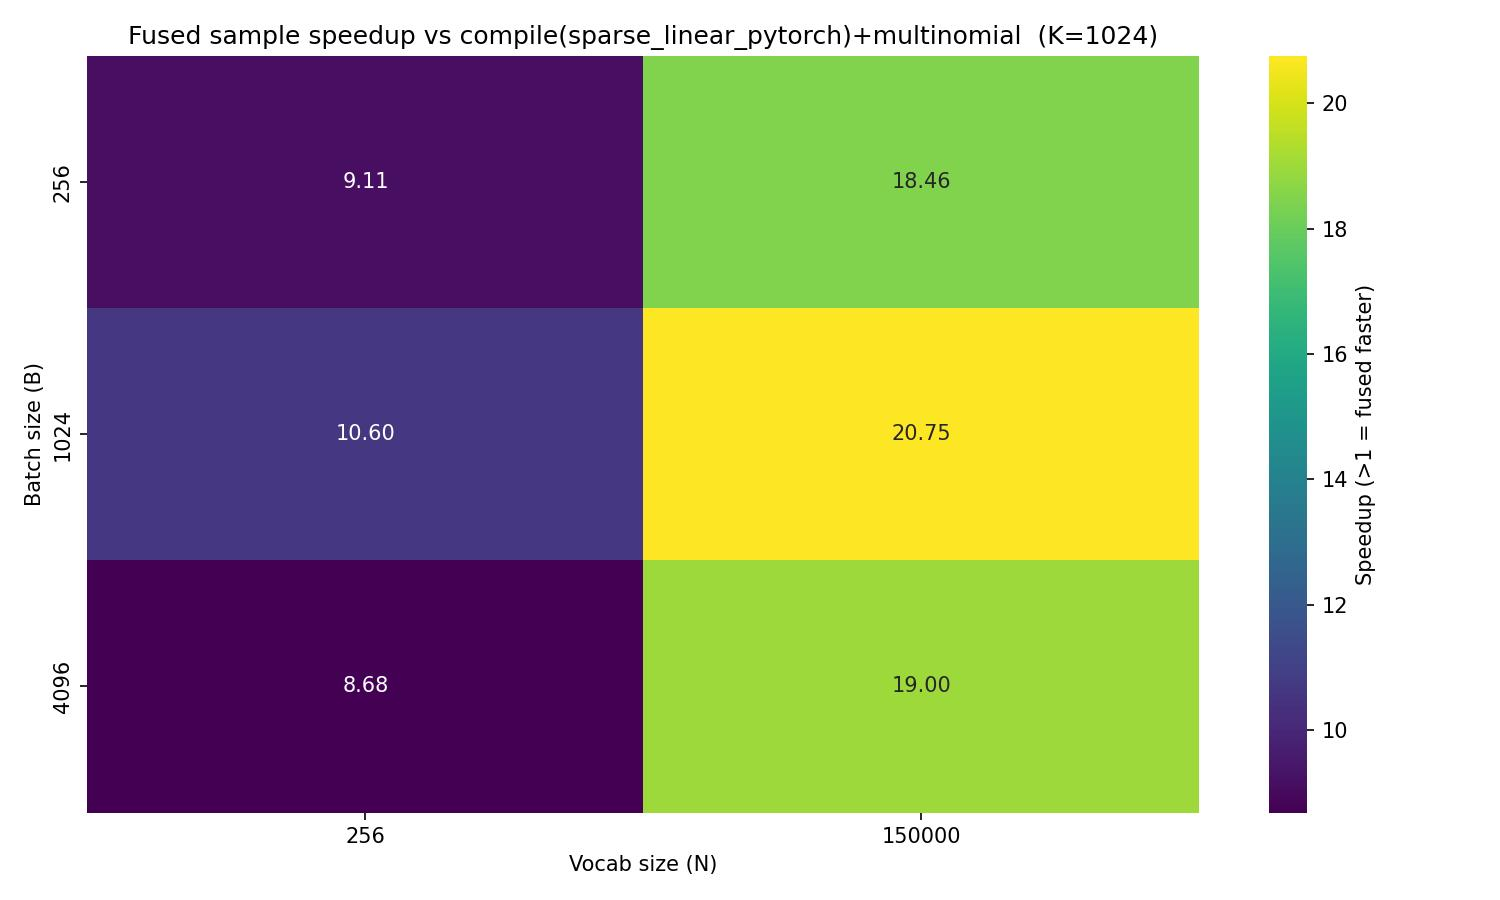
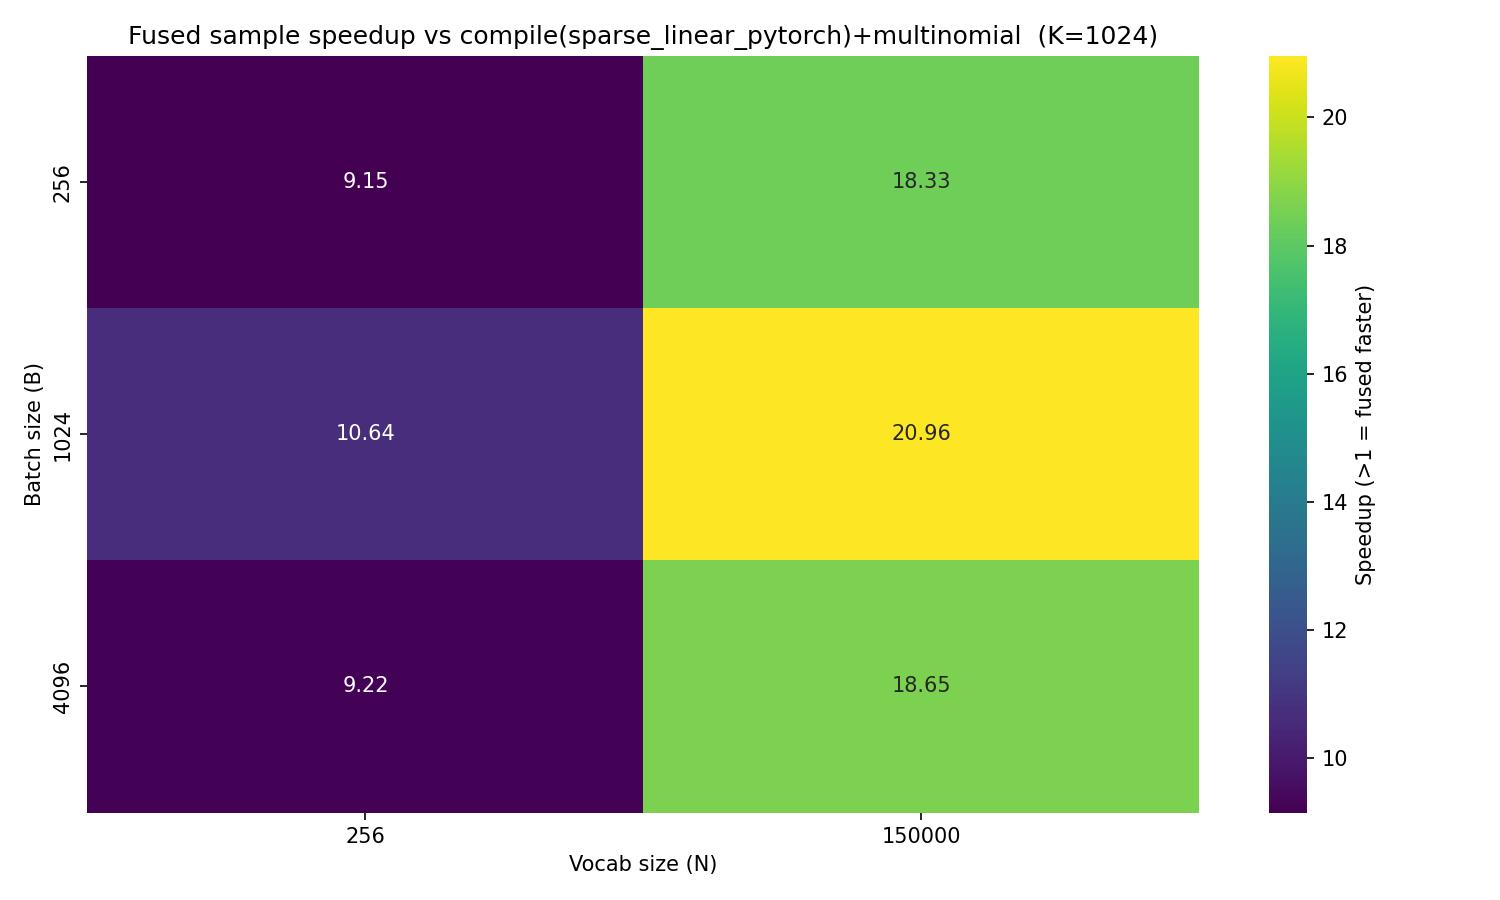
Minor refactor of kernels

diff --git a/rectokens/kernels/constrained_node_transition.py b/rectokens/kernels/constrained_node_transition.py
@@ -313,6 +313,66 @@ def _compute_branch_logits(
     return branch_cols, branch_vals, branch_valid, logits
 
 
+@triton.jit
+def _fused_prologue(
+    cur_node_ptr,
+    csr_trie_row_ptr,
+    a_ptr,
+    b_ptr,
+    bias_ptr,
+    csr_trie_cols_vals_ptr,
+    next_node_ptr,
+    valid_idxs_ptr,
+    a_stride_B,
+    a_stride_K,
+    b_stride_K,
+    b_stride_N,
+    cols_vals_stride_0,
+    next_node_stride_B,
+    next_node_stride_N,
+    valid_idxs_stride_B,
+    valid_idxs_stride_N,
+    max_branches,
+    B: tl.constexpr,
+    K: tl.constexpr,
+    BLOCK_B: tl.constexpr,
+    BLOCK_K: tl.constexpr,
+    BLOCK_BRANCHES: tl.constexpr,
+    HAS_BIAS: tl.constexpr,
+):
+    """Shared prologue: pid setup, CSR load, branch logit compute, and next_node/valid_idxs stores."""
+    pid_B = tl.program_id(axis=0)
+    pid_BR = tl.program_id(axis=1)
+
+    offs_B = pid_B * BLOCK_B + tl.arange(0, BLOCK_B)
+    offs_BR = pid_BR * BLOCK_BRANCHES + tl.arange(0, BLOCK_BRANCHES)
+    b_mask = offs_B < B
+
+    csr_row_ptrs, n_children = _load_csr_state(
+        offs_B, b_mask, cur_node_ptr, csr_trie_row_ptr
+    )
+
+    branch_cols, branch_vals, branch_valid, logits = _compute_branch_logits(
+        offs_B, offs_BR, b_mask, csr_row_ptrs, n_children,
+        a_ptr, b_ptr, bias_ptr, csr_trie_cols_vals_ptr,
+        a_stride_B, a_stride_K, b_stride_K, b_stride_N, cols_vals_stride_0,
+        max_branches, K, BLOCK_B, BLOCK_K, BLOCK_BRANCHES, HAS_BIAS,
+    )
+
+    store_mask = b_mask[:, None] & (offs_BR[None, :] < max_branches)
+    tl.store(
+        next_node_ptr + offs_B[:, None] * next_node_stride_B + offs_BR[None, :] * next_node_stride_N,
+        branch_vals,
+        mask=store_mask,
+    )
+    tl.store(
+        valid_idxs_ptr + offs_B[:, None] * valid_idxs_stride_B + offs_BR[None, :] * valid_idxs_stride_N,
+        branch_cols,
+        mask=store_mask,
+    )
+
+    return pid_BR, offs_B, offs_BR, b_mask, branch_cols, branch_valid, logits
+
 
 # ─────────────────────────────────────────────────────────────────────────────
 # Fused sparse linear kernel
@@ -420,51 +480,13 @@ def _fused_sparse_linear_constrained_node_transition_kernel(
     max_branches,
     HAS_BIAS: tl.constexpr,
 ):
-    pid_B = tl.program_id(axis=0)
-    pid_BR = tl.program_id(axis=1)
-
-    offs_B = pid_B * BLOCK_B + tl.arange(0, BLOCK_B)
-    offs_BR = pid_BR * BLOCK_BRANCHES + tl.arange(0, BLOCK_BRANCHES)
-    b_mask = offs_B < B
-
-    csr_row_ptrs, n_children = _load_csr_state(
-        offs_B, b_mask, cur_node_ptr, csr_trie_row_ptr
-    )
-
-    branch_cols, branch_vals, branch_valid, logits = _compute_branch_logits(
-        offs_B,
-        offs_BR,
-        b_mask,
-        csr_row_ptrs,
-        n_children,
-        a_ptr,
-        b_ptr,
-        bias_ptr,
-        csr_trie_cols_vals_ptr,
-        a_stride_B,
-        a_stride_K,
-        b_stride_K,
-        b_stride_N,
-        cols_vals_stride_0,
-        max_branches,
-        K,
-        BLOCK_B,
-        BLOCK_K,
-        BLOCK_BRANCHES,
-        HAS_BIAS,
-    )
-
-    # next_node and valid_idxs are indexed contiguously by branch slot — store as 2D blocks.
-    store_mask = b_mask[:, None] & (offs_BR[None, :] < max_branches)
-    tl.store(
-        next_node_ptr + offs_B[:, None] * next_node_stride_B + offs_BR[None, :] * next_node_stride_N,
-        branch_vals,
-        mask=store_mask,
-    )
-    tl.store(
-        valid_idxs_ptr + offs_B[:, None] * valid_idxs_stride_B + offs_BR[None, :] * valid_idxs_stride_N,
-        branch_cols,
-        mask=store_mask,
+    _, offs_B, _, _, branch_cols, branch_valid, logits = _fused_prologue(
+        cur_node_ptr, csr_trie_row_ptr,
+        a_ptr, b_ptr, bias_ptr, csr_trie_cols_vals_ptr,
+        next_node_ptr, valid_idxs_ptr,
+        a_stride_B, a_stride_K, b_stride_K, b_stride_N, cols_vals_stride_0,
+        next_node_stride_B, next_node_stride_N, valid_idxs_stride_B, valid_idxs_stride_N,
+        max_branches, B, K, BLOCK_B, BLOCK_K, BLOCK_BRANCHES, HAS_BIAS,
     )
 
     # corrected_logits is indexed by token column (scattered) — requires per-branch loop.
@@ -608,51 +630,13 @@ def _fused_sparse_linear_constrained_node_transition_sampling_kernel(
     max_branches,
     HAS_BIAS: tl.constexpr,
 ):
-    pid_B = tl.program_id(axis=0)
-    pid_BR = tl.program_id(axis=1)
-
-    offs_B = pid_B * BLOCK_B + tl.arange(0, BLOCK_B)
-    offs_BR = pid_BR * BLOCK_BRANCHES + tl.arange(0, BLOCK_BRANCHES)
-    b_mask = offs_B < B
-
-    csr_row_ptrs, n_children = _load_csr_state(
-        offs_B, b_mask, cur_node_ptr, csr_trie_row_ptr
-    )
-
-    branch_cols, branch_vals, branch_valid, logits = _compute_branch_logits(
-        offs_B,
-        offs_BR,
-        b_mask,
-        csr_row_ptrs,
-        n_children,
-        a_ptr,
-        b_ptr,
-        bias_ptr,
-        csr_trie_cols_vals_ptr,
-        a_stride_B,
-        a_stride_K,
-        b_stride_K,
-        b_stride_N,
-        cols_vals_stride_0,
-        max_branches,
-        K,
-        BLOCK_B,
-        BLOCK_K,
-        BLOCK_BRANCHES,
-        HAS_BIAS,
-    )
-
-    # next_node and valid_idxs are contiguous by branch slot — store as 2D blocks, no loop.
-    store_mask = b_mask[:, None] & (offs_BR[None, :] < max_branches)
-    tl.store(
-        next_node_ptr + offs_B[:, None] * next_node_stride_B + offs_BR[None, :] * next_node_stride_N,
-        branch_vals,
-        mask=store_mask,
-    )
-    tl.store(
-        valid_idxs_ptr + offs_B[:, None] * valid_idxs_stride_B + offs_BR[None, :] * valid_idxs_stride_N,
-        branch_cols,
-        mask=store_mask,
+    pid_BR, offs_B, offs_BR, b_mask, branch_cols, branch_valid, logits = _fused_prologue(
+        cur_node_ptr, csr_trie_row_ptr,
+        a_ptr, b_ptr, bias_ptr, csr_trie_cols_vals_ptr,
+        next_node_ptr, valid_idxs_ptr,
+        a_stride_B, a_stride_K, b_stride_K, b_stride_N, cols_vals_stride_0,
+        next_node_stride_B, next_node_stride_N, valid_idxs_stride_B, valid_idxs_stride_N,
+        max_branches, B, K, BLOCK_B, BLOCK_K, BLOCK_BRANCHES, HAS_BIAS,
     )
 
     # Vectorized Gumbel-max over the full [BLOCK_B, BLOCK_BRANCHES] block — registers only, no sync.
@@ -716,7 +700,7 @@ def _fused_linear_constrained_node_transition_topk_op(
         triton.cdiv(B, meta["BLOCK_B"]),
         triton.cdiv(max_branches, meta["BLOCK_BRANCHES"]),
     )
-    wrap_triton(_fused_sparse_linear_constrained_node_transition_topk_kernel)[grid](
+    wrap_triton(_fused_sparse_linear_constrained_node_transition_compact_kernel)[grid](
         a_ptr=a,
         b_ptr=b,
         bias_ptr=bias_val,
@@ -755,7 +739,7 @@ def _fused_linear_constrained_node_transition_topk_op(
     restore_value=["next_node_ptr", "valid_idxs_ptr", "branch_logits_ptr"],
 )
 @triton.jit
-def _fused_sparse_linear_constrained_node_transition_topk_kernel(
+def _fused_sparse_linear_constrained_node_transition_compact_kernel(
     # Inputs
     a_ptr,
     b_ptr,
@@ -785,57 +769,16 @@ def _fused_sparse_linear_constrained_node_transition_topk_kernel(
     max_branches,
     HAS_BIAS: tl.constexpr,
 ):
-    pid_B = tl.program_id(axis=0)
-    pid_BR = tl.program_id(axis=1)
-
-    offs_B = pid_B * BLOCK_B + tl.arange(0, BLOCK_B)
-    offs_BR = pid_BR * BLOCK_BRANCHES + tl.arange(0, BLOCK_BRANCHES)
-    b_mask = offs_B < B
-
-    csr_row_ptrs, n_children = _load_csr_state(
-        offs_B, b_mask, cur_node_ptr, csr_trie_row_ptr
+    _, offs_B, offs_BR, b_mask, _, branch_valid, logits = _fused_prologue(
+        cur_node_ptr, csr_trie_row_ptr,
+        a_ptr, b_ptr, bias_ptr, csr_trie_cols_vals_ptr,
+        next_node_ptr, valid_idxs_ptr,
+        a_stride_B, a_stride_K, b_stride_K, b_stride_N, cols_vals_stride_0,
+        next_node_stride_B, next_node_stride_N, valid_idxs_stride_B, valid_idxs_stride_N,
+        max_branches, B, K, BLOCK_B, BLOCK_K, BLOCK_BRANCHES, HAS_BIAS,
     )
 
-    branch_cols, branch_vals, branch_valid, logits = _compute_branch_logits(
-        offs_B,
-        offs_BR,
-        b_mask,
-        csr_row_ptrs,
-        n_children,
-        a_ptr,
-        b_ptr,
-        bias_ptr,
-        csr_trie_cols_vals_ptr,
-        a_stride_B,
-        a_stride_K,
-        b_stride_K,
-        b_stride_N,
-        cols_vals_stride_0,
-        max_branches,
-        K,
-        BLOCK_B,
-        BLOCK_K,
-        BLOCK_BRANCHES,
-        HAS_BIAS,
-    )
-
-    # Each (batch, branch_idx) address is unique across blocks — no lock needed.
-    # All three outputs are indexed by branch_idx (contiguous), so store as 2D blocks.
     store_mask = b_mask[:, None] & (offs_BR[None, :] < max_branches)
-    tl.store(
-        next_node_ptr
-        + offs_B[:, None] * next_node_stride_B
-        + offs_BR[None, :] * next_node_stride_N,
-        branch_vals,
-        mask=store_mask,
-    )
-    tl.store(
-        valid_idxs_ptr
-        + offs_B[:, None] * valid_idxs_stride_B
-        + offs_BR[None, :] * valid_idxs_stride_N,
-        branch_cols,
-        mask=store_mask,
-    )
     tl.store(
         branch_logits_ptr + offs_B[:, None] * max_branches + offs_BR[None, :],
         tl.where(branch_valid, logits, float("-inf")).to(tl.bfloat16),
